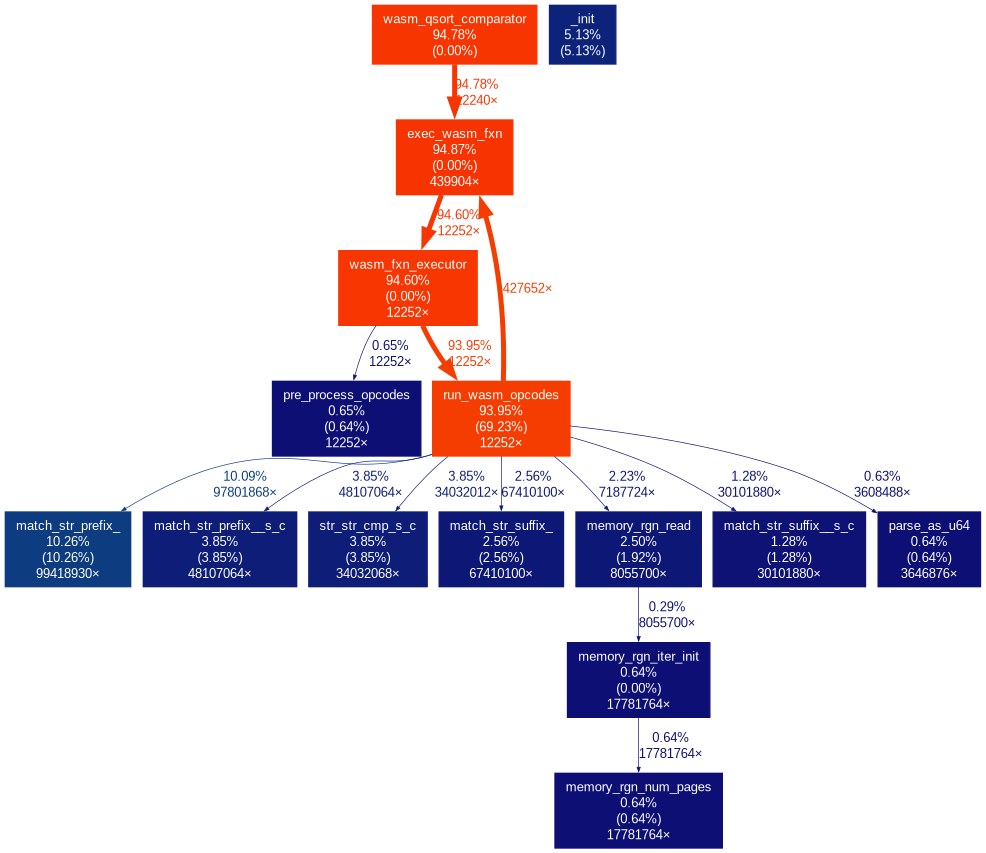
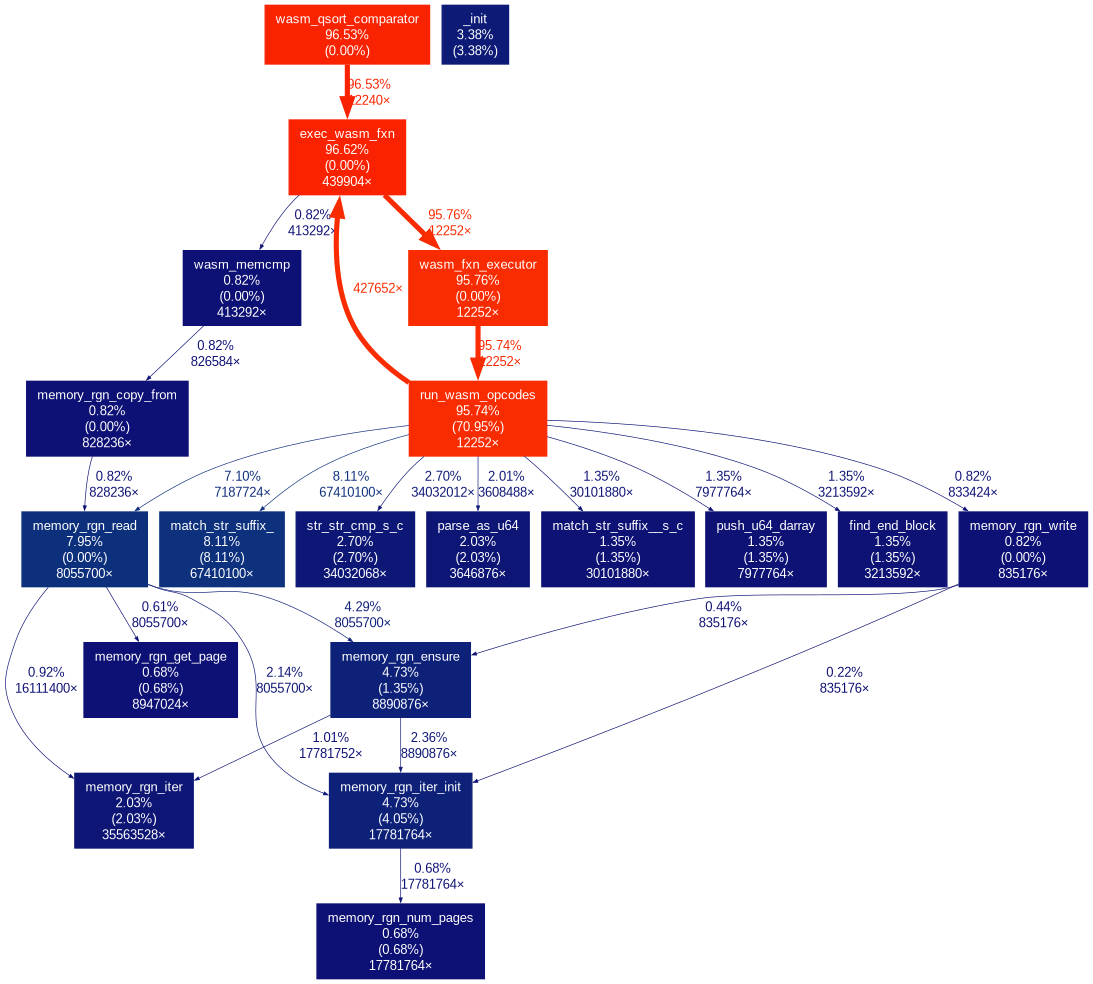
optimzed some 'match_str_prefix' calls by making prefix tags

diff --git a/opcodes.h b/opcodes.h
@@ -43,14 +43,30 @@
     X(OPCODE_I32_SUB, "i32.sub")			\
     X(OPCODE_I32_SHR_S, "i32.shr_s")
   
+// List of opcode/values 'groups' based on 'prefix'
+#define OPCODE_GROUP_LIST(X)			\
+  X(OPCODE_GRP_PARAM_LIST, "param")		\
+    X(OPCODE_GRP_RESULT_LIST, "result")		\
+    X(OPCODE_GRP_BREAK, "br")			\
+    X(OPCODE_GRP_MEM_OFFSET, "offset=")		\
+    X(OPCODE_GRP_MEM_ALIGN, "align=")		\
+    X(OPCODE_GRP_I32_RESULT, "i32.")		\
+    X(OPCODE_GRP_U32_RESULT, "u32.")		\
+    X(OPCODE_GRP_I64_RESULT, "i64.")		\
+    X(OPCODE_GRP_U64_RESULT, "u64.")		\
+    X(OPCODE_GRP_F32_RESULT, "f32.")		\
+    X(OPCODE_GRP_F64_RESULT, "f64.")
+    
 
-#define OPCODE_GET_ENUM(a, b) a, 
+#define OPCODE_GET_ENUM(a, b) a,
 
 typedef struct Opcode Opcode;
 struct Opcode {
   enum{
-    OPCODE_UNKNOWN,// To be used for all the unknown opcodes/literals
+    OPCODE_UNKNOWN = 0,// To be used for all the unknown opcodes/literals
     OPCODE_LIST(OPCODE_GET_ENUM) OPCODES_COUNT,
+
+    /// Additional information if not opcode
 
     // A 'hierarchy' of 'immediate operand types'
     //    compared by 'id' >= 'desired level'
@@ -58,6 +74,13 @@ struct Opcode {
     OPCODE_IM_IS_S64,
     OPCODE_IM_IS_U64,
   } id;
+
+  enum {
+    OPCODE_GROUP_UNSPECIFIED=0,
+    // Group tags for opcodes
+    // TODO:: Only supports prefix-based groups, figure out for others also
+    OPCODE_GROUP_LIST(OPCODE_GET_ENUM) OPCODES_GROUP_COUNT,
+  } pref_tag;
   Str name;
   u64 du64;
   s64 di64;
@@ -97,6 +120,17 @@ Opcode_Slice pre_process_opcodes(Alloc_Interface allocr, Str_Slice raw_opcodes){
 	op.id = OPCODE_IM_IS_F64;
       }
     }
+    // Try to acertain the group of opcode
+#define OPCODE_GRP_PROCESS_PREFIX(a, b)		\
+    if(match_str_prefix(raw_op, b)){		\
+      op.pref_tag = a;				\
+      goto end_of_scanning_opcode_group_pref;	\
+    }						\
+
+    //if(match_str_prefix(raw_op, "param")){ op.pref_tag = OPCODE_GRP_PARAM_LIST; break;}
+    OPCODE_GROUP_LIST(OPCODE_GRP_PROCESS_PREFIX);
+  end_of_scanning_opcode_group_pref:
+
     slice_inx(opcodes, i) = op;
   }
   //assert(false);
@@ -157,7 +191,8 @@ void dump_opcode_counts(Opcode_Count_Darray cntr){
   printf("\n------- Opcode call counts -------");
   for_slice(cntr, i){
     if((i % 3) == 0) printf("\n");
-    printf("%.*s->%d\t\t", str_print(cntr.data[i].op.name), cntr.data[i].count);
+    printf("%.*s[%d]->%d\t\t", str_print(cntr.data[i].op.name),
+	   cntr.data[i].op.pref_tag, cntr.data[i].count);
   }
   printf("\n----------------------------------\n");
   printf("******** %zu op with id was found*********\n", (size_t)op_with_id);
@@ -339,8 +374,9 @@ u64 run_wasm_opcodes(Alloc_Interface allocr, Exec_Context* cxt, const Opcode_Sli
   // Go through the opcodes?
   for_slice(opcodes, i){
 
+    //if(str_cmp("br_if", slice_inx(opcodes, i).name) == 0) cxt->step_into = true;
     //if(str_cmp("if", slice_inx(opcodes, i).name) == 0) cxt->step_into = true;
-    //if(str_cmp("i32.add", slice_inx(opcodes, i).name) == 0) cxt->step_into = true;
+    //if(str_cmp("f64.const", slice_inx(opcodes, i).name) == 0) cxt->step_into = true;
 
     // Step into mode, used to examine the opcodes and stuff
     if(cxt->step_into){
@@ -416,8 +452,8 @@ u64 run_wasm_opcodes(Alloc_Interface allocr, Exec_Context* cxt, const Opcode_Sli
 
 	      printf(" <");
 	      for_range(size_t, i, begin, end)
-		printf("%.*s(%d)  ", str_print(slice_inx(opcodes, i).name),
-		       (int)slice_inx(opcodes, i).id);
+		printf("%.*s(%d)<%d>  ", str_print(slice_inx(opcodes, i).name),
+		       (int)slice_inx(opcodes, i).id, (int)slice_inx(opcodes, i).pref_tag);
 	      printf(">\n");
 	      break;
 	    }
@@ -730,11 +766,13 @@ u64 run_wasm_opcodes(Alloc_Interface allocr, Exec_Context* cxt, const Opcode_Sli
       u64 retcnt = 0;
       for(int it = 1; it < 3; it++){
 	if((i+it)>=opcodes.count) break;
-	const Str v = slice_inx(opcodes, i+it).name;
-	if(match_str_prefix(v, "param")){
-	  pcnt = func_param_res_count(v);
-	}else if(match_str_prefix(v, "result")){
-	  retcnt = func_param_res_count(v);
+	const Opcode v = slice_inx(opcodes, i+it);
+	if(v.pref_tag == OPCODE_GRP_PARAM_LIST){
+	//if(match_str_prefix(v, "param")){
+	  pcnt = func_param_res_count(v.name);
+	}else if(v.pref_tag == OPCODE_GRP_RESULT_LIST){
+	  //}else if(match_str_prefix(v, "result")){
+	  retcnt = func_param_res_count(v.name);
 	}else{
 	  // TODO:: Support type indices also
 	  break;
@@ -749,11 +787,13 @@ u64 run_wasm_opcodes(Alloc_Interface allocr, Exec_Context* cxt, const Opcode_Sli
       u64 retcnt = 0;
       for(int it = 1; it < 3; it++){
 	if((i+it)>=opcodes.count) break;
-	const Str v = slice_inx(opcodes, i+it).name;
-	if(match_str_prefix(v, "param")){
-	  pcnt = func_param_res_count(v);
-	}else if(match_str_prefix(v, "result")){
-	  retcnt = func_param_res_count(v);
+	const Opcode v = slice_inx(opcodes, i+it);
+	if(v.pref_tag == OPCODE_GRP_PARAM_LIST){
+	//if(match_str_prefix(v, "param")){
+	  pcnt = func_param_res_count(v.name);
+	}else if(v.pref_tag == OPCODE_GRP_RESULT_LIST){
+	  //}else if(match_str_prefix(v, "result")){
+	  retcnt = func_param_res_count(v.name);
 	}else{
 	  // TODO:: Support type indices also
 	  break;
@@ -772,11 +812,13 @@ u64 run_wasm_opcodes(Alloc_Interface allocr, Exec_Context* cxt, const Opcode_Sli
       u64 retcnt = 0;
       for(int it = 1; it < 3; it++){
 	if((i+it)>=opcodes.count) break;
-	const Str v = slice_inx(opcodes, i+it).name;
-	if(match_str_prefix(v, "param")){
-	  pcnt = func_param_res_count(v);
-	}else if(match_str_prefix(v, "result")){
-	  retcnt = func_param_res_count(v);
+	const Opcode v = slice_inx(opcodes, i+it);
+	if(v.pref_tag == OPCODE_GRP_PARAM_LIST){
+	//if(match_str_prefix(v, "param")){
+	  pcnt = func_param_res_count(v.name);
+	}else if(v.pref_tag == OPCODE_GRP_RESULT_LIST){  
+	//}else if(match_str_prefix(v, "result")){
+	  retcnt = func_param_res_count(v.name);
 	}else{
 	  // TODO:: Support type indices also
 	  break;
@@ -826,7 +868,8 @@ u64 run_wasm_opcodes(Alloc_Interface allocr, Exec_Context* cxt, const Opcode_Sli
       u64 v;
       popblk_stk(v);
       i = break_old_blk(stk, v);
-    } else if (match_str_prefix(op.name, cstr_to_str("br"))) {
+    } else if (op.pref_tag == OPCODE_GRP_BREAK){
+      //} else if (match_str_prefix(op.name, cstr_to_str("br"))) {
       // The first argument is the number of labels(blocks) to pop
       i++; // maybe verify that its not ended yet ??
 
@@ -877,11 +920,13 @@ u64 run_wasm_opcodes(Alloc_Interface allocr, Exec_Context* cxt, const Opcode_Sli
 	  u64 retcnt = 0;
 	  for(int it = 0; it < 2; it++){
 	    if((i+it)>=opcodes.count) break;
-	    const Str v = slice_inx(opcodes, i+it).name;
-	    if(match_str_prefix(v, "param")){
-	      pcnt = func_param_res_count(v);
-	    }else if(match_str_prefix(v, "result")){
-	      retcnt = func_param_res_count(v);
+	    const Opcode v = slice_inx(opcodes, i+it);
+	    if(v.pref_tag == OPCODE_GRP_PARAM_LIST){
+	    //if(match_str_prefix(v, "param")){
+	      pcnt = func_param_res_count(v.name);
+	    }else if(v.pref_tag == OPCODE_GRP_RESULT_LIST){
+	    //}else if(match_str_prefix(v, "result")){
+	      retcnt = func_param_res_count(v.name);
 	    }else{
 	      // TODO:: Support type indices also
 	      break;
@@ -1005,8 +1050,10 @@ u64 run_wasm_opcodes(Alloc_Interface allocr, Exec_Context* cxt, const Opcode_Sli
       // Do twice, once expecting offset=, another expecting alignment=
       for_range(size_t, ii, 0, 2){
 	if((i+1)<opcodes.count){
-	  Str maybearg = slice_inx(opcodes, i+1).name;
-	  if(match_str_prefix(maybearg, cstr_to_str("offset="))){
+	  const Opcode maybeop = slice_inx(opcodes, i+1);
+	  Str maybearg = maybeop.name;
+	  if(maybeop.pref_tag == OPCODE_GRP_MEM_OFFSET){
+	  //if(match_str_prefix(maybearg, cstr_to_str("offset="))){
 	    maybearg = str_slice(maybearg, strlen("offset="), maybearg.count);
 	    u64 off;
 	    if(!parse_as_u64(maybearg, &off)){
@@ -1017,7 +1064,8 @@ u64 run_wasm_opcodes(Alloc_Interface allocr, Exec_Context* cxt, const Opcode_Sli
 	    // Adding the constant offset 
 	    offset += off;
 	    i++;
-	  }else if(match_str_prefix(maybearg, cstr_to_str("align="))){
+	  }else if(maybeop.pref_tag == OPCODE_GRP_MEM_ALIGN){
+	  //}else if(match_str_prefix(maybearg, cstr_to_str("align="))){
 	    // TODO:: Someday care about alignment
 	    i++;
 	  }else {break;}
@@ -1025,19 +1073,20 @@ u64 run_wasm_opcodes(Alloc_Interface allocr, Exec_Context* cxt, const Opcode_Sli
       }
       void* pdata=nullptr;
       size_t sz_dt=0;
+      //if(match_str_prefix(op.name, prefix)){		
 #define fill_ptr_n_size(prefix, item)			\
       do{						\
-	if(match_str_prefix(op.name, prefix)){		\
+	if(op.pref_tag == OPCODE_GRP_##prefix##_RESULT){	\
 	  pdata = &val.item;				\
 	  sz_dt = sizeof(val.item);			\
 	}						\
       }while(0)
-      fill_ptr_n_size("i32", di32);
-      fill_ptr_n_size("u32", du32);
-      fill_ptr_n_size("i64", di64);
-      fill_ptr_n_size("u64", du64);
-      fill_ptr_n_size("f32", df32);
-      fill_ptr_n_size("f64", df64);
+      fill_ptr_n_size(I32, di32);
+      fill_ptr_n_size(U32, du32);
+      fill_ptr_n_size(I64, di64);
+      fill_ptr_n_size(U64, du64);
+      fill_ptr_n_size(F32, df32);
+      fill_ptr_n_size(F64, df64);
       // TODO:: Handle when none of the values match
       if(match_str_suffix(op.name, "8_u")||match_str_suffix(op.name, "8_s")||match_str_suffix(op.name, "8")){
 	sz_dt = 1;
